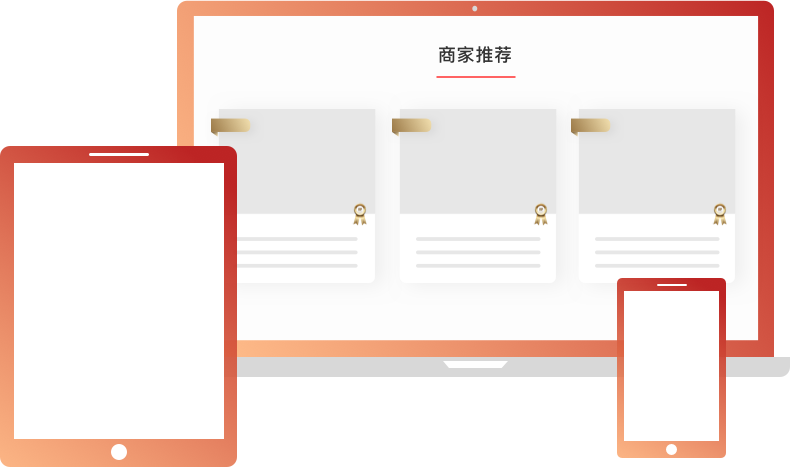
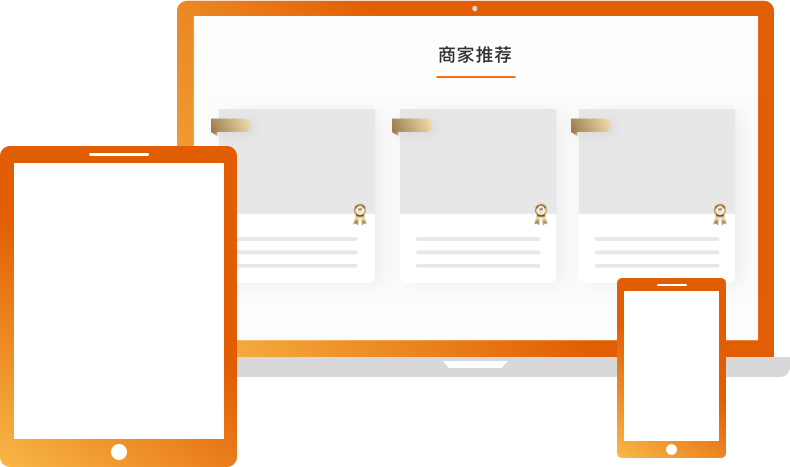
advertise page change language

Changed region(s): [[0.0, 0.0, 1.0, 1.0], [0.5468, 0.1499, 0.638, 0.1799]]

diff --git a/page-advertise.php b/page-advertise.php
@@ -173,8 +173,8 @@ if (document.documentElement.clientWidth < 769) {
 <div class="sect-1">
     <div class="background" >
         <div class="container" style="">
-            <p id="1" style="font-size: 44px;font-family: PingFangTC-Semibold;margin-bottom: 0; color: #FFFFFF;">ADVERTISE</p>
-            <p style="font-size: 18px;font-family: PingFangTC-Regular; margin-bottom: 0; color: #FFFFFF;">Access to highly targeted AUADS audience</p>
+            <p id="1" style="font-size: 44px;font-family: PingFangTC-Semibold;margin-bottom: 0; color: #FFFFFF;">市场推广</p>
+            <p style="font-size: 18px;font-family: PingFangTC-Regular; margin-bottom: 0; color: #FFFFFF;">帮您获得高针对性的受众群体</p>
             <div>
                 <div id="scrollable" class="scrollable">
                     <img id="img-1" alt="sample" style= "display: none;" src="<?php echo get_template_directory_uri();?>/img/assets/basic listing sample.png"></img>
@@ -182,13 +182,13 @@ if (document.documentElement.clientWidth < 769) {
                     <img id="img-3" alt="sample" style= "display: none;  width: 530px;" src="<?php echo get_template_directory_uri();?>/img/assets/Professional.png"></img>
                 </div> 
                 <div class="col-xs-1 "style=" width: 250px; padding-left: 0px; padding-right:0px; padding-top: 30px;" >
-                    <h3 class="right" style="font-size: 36px; letter-spacing: 3px;font-family: PingFangTC-Regular; margin-bottom: 0; color: #FFFFFF;">List Options</h3></br></br>
+                    <h3 class="right" style="font-size: 36px; letter-spacing: 3px;font-family: PingFangTC-Regular; margin-bottom: 0; color: #FFFFFF;">页面升级</h3></br></br>
                     <span id="line-1" style="display: none; font-size: 25px; letter-spacing: 3px;font-family:PingFangTC-Medium; color: #FFFFFF;">|</span>
-                    <button id="b1" class="list-potion" onclick="Click(1)" style="margin-bottom: 15px;">BASIC LISTING</button>
+                    <button id="b1" class="list-potion" onclick="Click(1)" style="margin-bottom: 15px;">商家信息登记</button>
                     </br><span id="line-2" style="display: none; font-size: 25px; letter-spacing: 3px;font-family:PingFangTC-Medium; color: #FFFFFF;">|</span>
-                    <button id="b2" class="list-potion" onclick="Click(2)" style="margin-bottom: 15px;">PREMIUM LISTING</button>
+                    <button id="b2" class="list-potion" onclick="Click(2)" style="margin-bottom: 15px;">商家页面制作</button>
                     </br><span id="line-3" style="display: none; font-size: 25px; letter-spacing: 3px;font-family:PingFangTC-Medium; color: #FFFFFF;">|</span>
-                    <button id="b3" class="list-potion" onclick="Click(3)" style="margin-bottom: 15px;">PROFESSIONAL</button>
+                    <button id="b3" class="list-potion" onclick="Click(3)" style="margin-bottom: 15px;">专业级页面制作</button>
                     <a class="butt" target="_blank" rel="noopener nofollow" href="https://auads.com.au/pricelist#<?php echo 1; ?>">Get Free Ad</a>
                 </div>  
             </div>
@@ -285,14 +285,13 @@ if (document.documentElement.clientWidth < 769) {
 <?php endif;?> 
 <div class="sect-2">
     <div class="container" style=" padding-top: 50px;" >
-        <p style="font-size: 24px; font-weight: 550; font-family: PingFangTC-Medium; margin-bottom: 15px; color: #A90000;">Promote your business using AUADS templates</p>
+        <p style="font-size: 24px; font-weight: 550; font-family: PingFangTC-Medium; margin-bottom: 15px; color: #F96F12;">AUADS帮助您推广生意</p>
         <div class="col-md-6 col-sm-6 col-xs-12 " style="float:left; width: 340px; padding-right:0px; padding-left: 0px; padding-top: 40px;">
             <P style="font-size: 18px;  font-family: PingFangTC-Regular; margin-bottom: 20px; color: #4A4A4A;">
-            AUADS provides basic templates for easy-to-use digital promotion for your business. Choose the most suitable for you and customise your own web page. 
-            This is the fastest and most efficient way to make your mark on the world wide web.</P>
-            <P style="font-size: 18px;  font-family: PingFangTC-Regular; margin-bottom: 20px; color: #4A4A4A;">Make your business more reputable.</P>
+            AUADS为您提供易于使用的商家页面来帮助您做推广。选择并制作最适合您的商家页面，以最快捷有效的方式帮助您在网络上进行推广。</P>
+            <P style="font-size: 18px;  font-family: PingFangTC-Regular; margin-bottom: 20px; color: #4A4A4A;">有助于提升企业的信誉度。</P>
             <P style="font-size: 18px;  font-family: PingFangTC-Regular; margin-bottom: 20px; color: #4A4A4A;">
-            Further customised options available so you have your own unique website.</P>
+            专业级的页面制作，让您拥有自己的网站页面。</P>
         </div>
         <div class="col-md-6 col-sm-6 col-xs-12 "style=" width: 580px; padding-left: 90px; padding-top: 40px;" >
             <img alt="img" style ="padding-left: 20px;" src="<?php echo get_template_directory_uri();?>/img/assets/Cards.png"></img>
@@ -301,23 +300,23 @@ if (document.documentElement.clientWidth < 769) {
 </div>
 <div id="s3" class="sect-3">
     <div class="container" style=" padding-top: 50px;">
-        <p style="font-size: 36px; font-family: PingFangTC-Regular; margin-bottom: 30px; color: #A90000;">Homepage List</p>
+        <p style="font-size: 36px; font-family: PingFangTC-Regular; margin-bottom: 30px; color: #F96F12;">首页推荐</p>
         <P style="font-size: 18px;  font-family: PingFangTC-Regular; margin-bottom: 50px; color: #333333 ;">
-        Become the recommended business on the home page to increase your exposure.</P>
+        成为主页上的推荐商家，获得高质高效率的推广。</P>
         <img alt="Homepage list" style ="padding-left: 50px;" src="<?php echo get_template_directory_uri();?>/img/assets/Homepage list sample.png"></img>
     </div>
 </div>
 <div id="s4" class="sect-4">
     <div class="container" style=" padding-top: 50px;">
-        <p style="font-size: 36px; font-family: PingFangTC-Regular; margin-bottom: 10px; color: white;">Rank to Top</p>
+        <p style="font-size: 36px; font-family: PingFangTC-Regular; margin-bottom: 10px; color: white;">置顶服务</p>
         <P style="font-size: 18px;  font-family: PingFangTC-Regular; margin-bottom: 45px; color: white ;">
-        Maximise exposure to your targeted audience</P>
+        最大限度地吸引目标受众</P>
         <div class="col-md-6 col-sm-6 col-xs-12 " style="float:left; width: 340px; padding-right:0px; padding-left: 0px; padding-top: 0px;">
             <P style="font-size: 18px; letter-spacing: 0.72px; font-family: PingFangTC-Regular; margin-bottom: 30px; line-height: 30px; color: #FFFFFF;">
-            AUADS can help your business to be always ranked on top within the category pages or header page.</P>
-            <P style="font-size: 18px; letter-spacing: 0.72px; font-family: PingFangTC-Medium; margin-bottom: 15px; color: #FFFFFF;">What's included:</P>
-            <P style="font-size: 18px; letter-spacing: 0.72px; font-family: PingFangTC-Regular; margin-bottom: 10px; color:#FFFFFF;">   &nbsp&nbsp• 	Category page top position</P>
-            <P style="font-size: 18px; letter-spacing: 0.72px; font-family: PingFangTC-Regular; margin-bottom: 15px; color:#FFFFFF;">   &nbsp&nbsp• 	Multiple impressions</P>
+            AUADS可以帮您在分类页面中将您的商家信息置顶。</P>
+            <P style="font-size: 18px; letter-spacing: 0.72px; font-family: PingFangTC-Medium; margin-bottom: 15px; color: #FFFFFF;">可选项目:</P>
+            <P style="font-size: 18px; letter-spacing: 0.72px; font-family: PingFangTC-Regular; margin-bottom: 10px; color:#FFFFFF;">   &nbsp&nbsp• 	分类页面中置顶</P>
+            <P style="font-size: 18px; letter-spacing: 0.72px; font-family: PingFangTC-Regular; margin-bottom: 15px; color:#FFFFFF;">   &nbsp&nbsp• 	多次展示</P>
             <a class="butt2" target="_blank" rel="noopener nofollow" href="https://auads.com.au/pricelist#<?php echo 2; ?>">Start Your Ad</a>
         </div>
         <div class="col-md-6 col-sm-6 col-xs-12 "style=" width: 580px; padding-left: 90px; padding-top: 85px;" >

diff --git a/page-advertise-en.php b/page-advertise-en.php
@@ -295,7 +295,7 @@ if (document.documentElement.clientWidth < 769) {
             Further customised options available so you have your own unique website.</P>
         </div>
         <div class="col-md-6 col-sm-6 col-xs-12 "style=" width: 580px; padding-left: 90px; padding-top: 40px;" >
-            <img alt="img" style ="padding-left: 20px;" src="<?php echo get_template_directory_uri();?>/img/assets/Cards.png"></img>
+            <img alt="img" style ="padding-left: 20px;" src="<?php echo get_template_directory_uri();?>/img/assets/Cards en.png"></img>
         </div>
     </div>
 </div>
